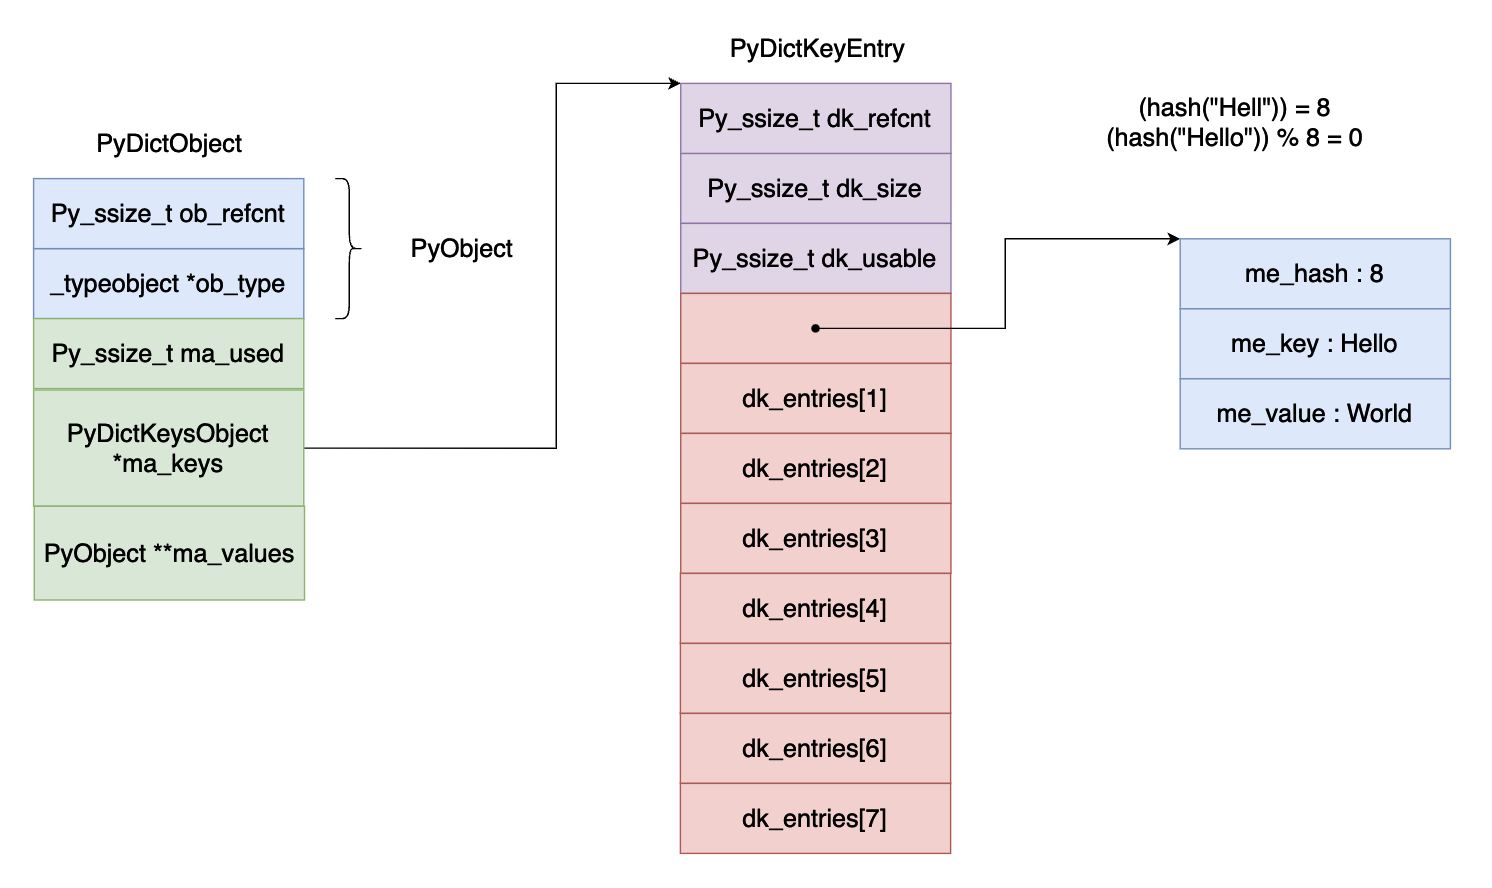
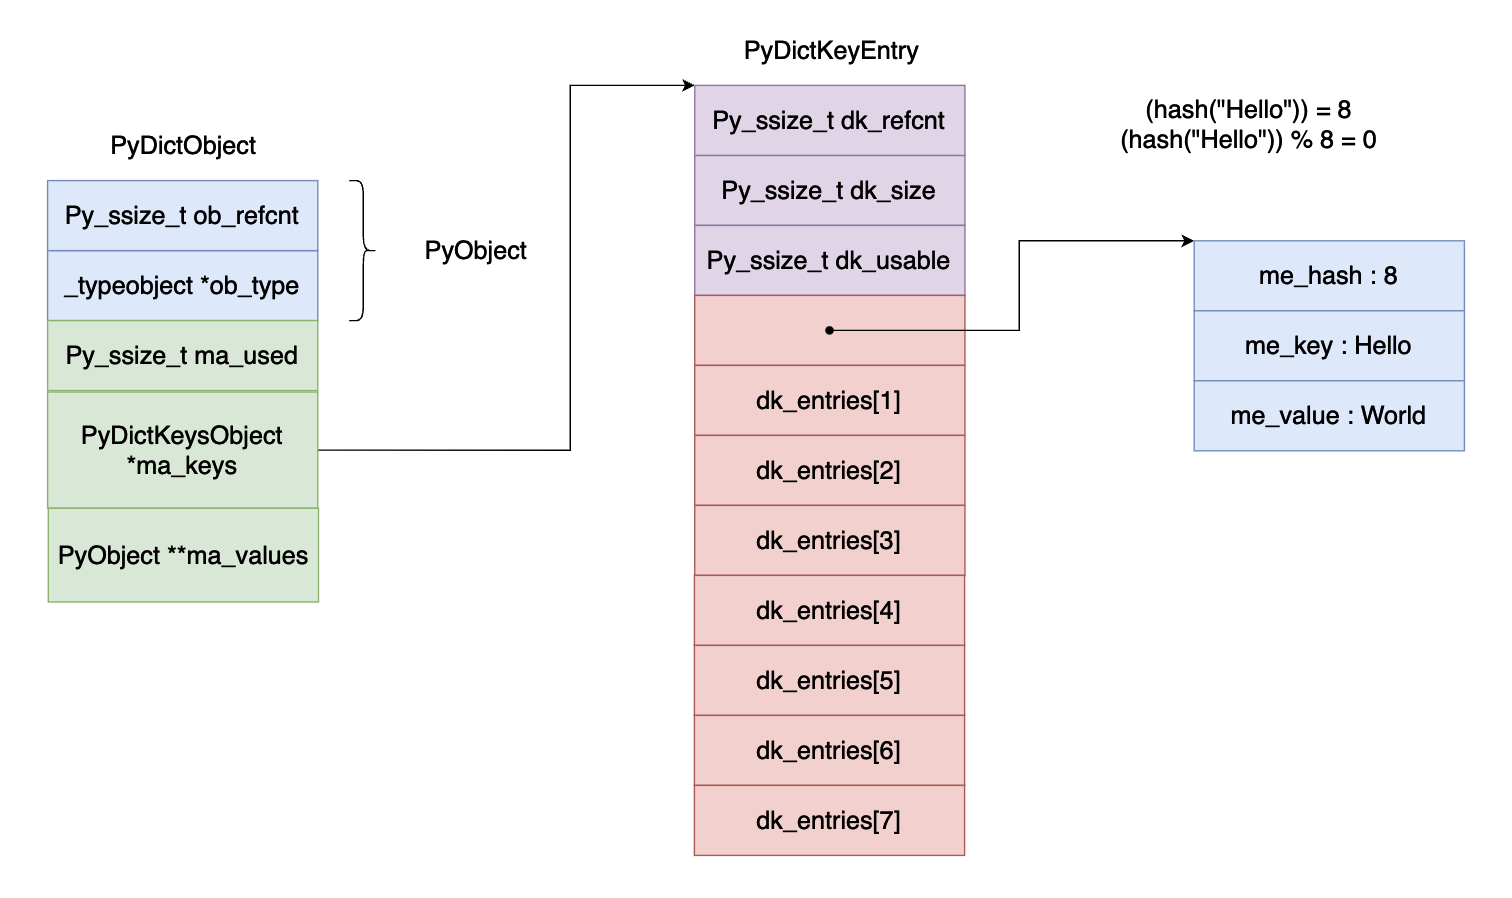
add optimized dict

diff --git a/objects/09dict.md b/objects/09dict.md
@@ -35,11 +35,14 @@ typedef struct {
 
 ![31-bytes](../images/31-bytes.png)
 
-所有的键值对都存储在 dk_entries 数组当中，比如对于 "Hello" "World" 这个键值对存储过程如下所示：
+所有的键值对都存储在 dk_entries 数组当中，比如对于 "Hello" "World" 这个键值对存储过程如下所示，如果 "Hello" 的哈希值等于 8 ，那么计算出来对象在 dk_entries 数组当中的下标位 0 。
 
 ![32-dict](../images/32-dict.png)
 
 在前面的文章当中我们谈到了，在 cpython 当中 dk_entries 数组当中的一个对象占用 24 字节的内存空间，在 cpython 当中的负载因子是 $\frac{2}{3}$ 。而一个 entry 的大小是 24 个字节，如果 dk_entries 的长度是 1024 的话，那么大概有 1024  / 3 * 24 = 8K 的内存空间是浪费的。为了解决这个问题，在新版的 cpython 当中采取了一个策略用于减少内存的使用。具体的设计如下图所示：
 
+![33-dict](../images/33-dict.png)
 
 
+
+![33-dict](../images/34-dict.png)
